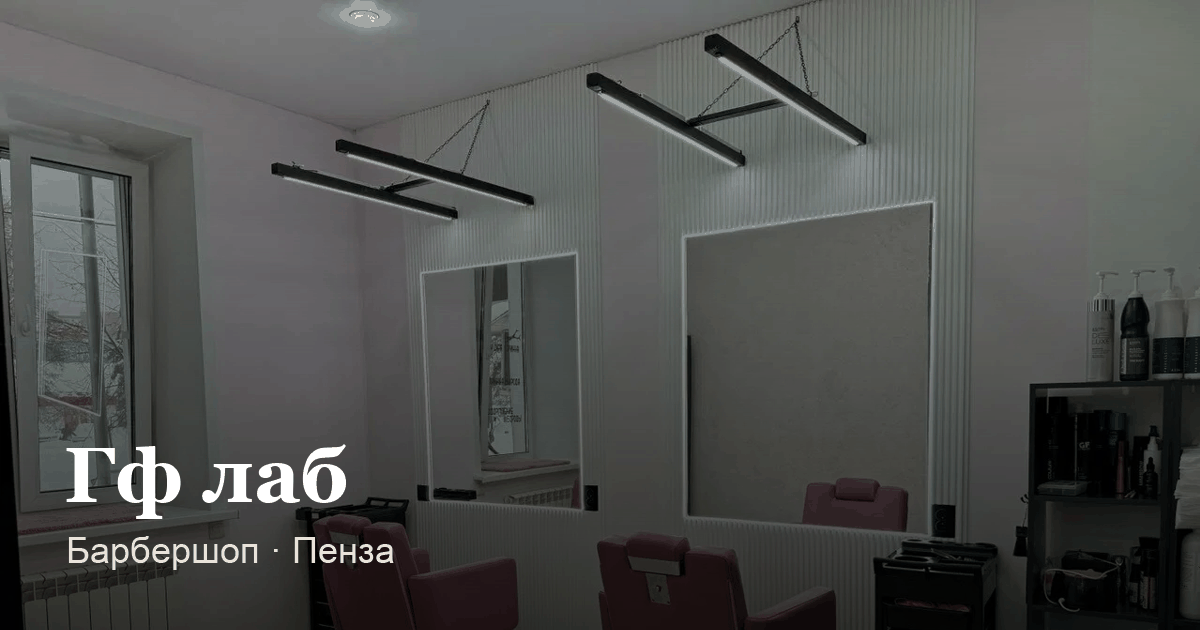
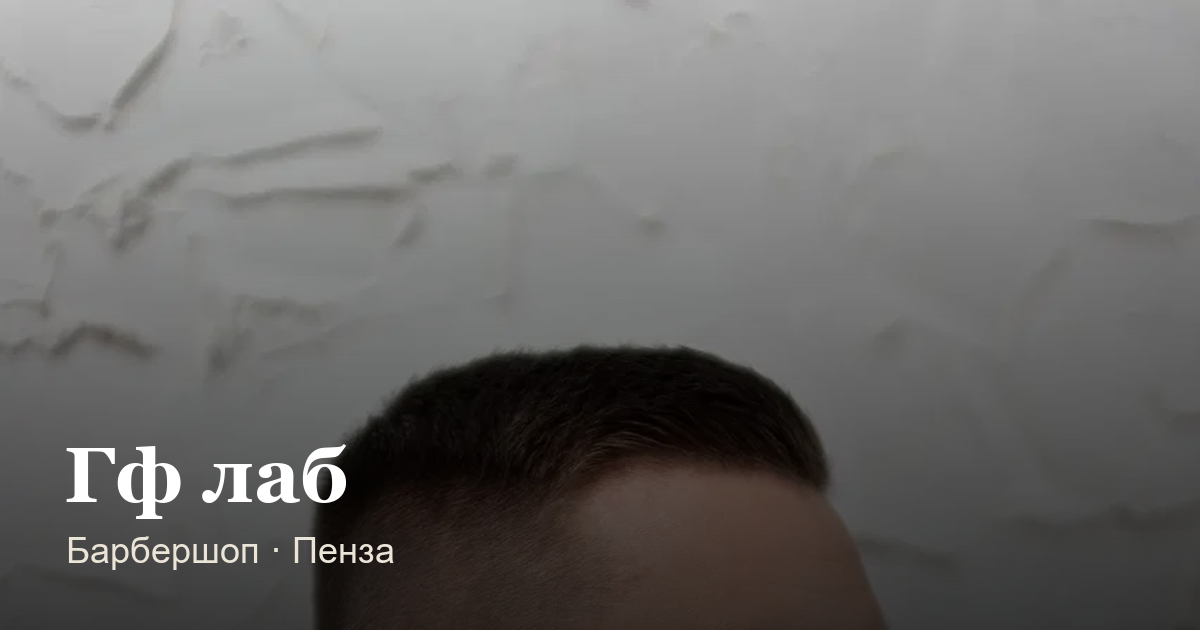
Update public link previews (5 files)

diff --git a/iglu-berloga-shchelkovo/index.html b/iglu-berloga-shchelkovo/index.html
@@ -1,0 +1,17 @@
+<!doctype html><html lang="ru"><head><meta charset="utf-8">
+<title>Иглу Berloga · ресторан, Щёлково</title>
+<meta name="description" content="«Иглу Berloga», Щёлково, наб. Серафима Саровского, 2. Меню, часы работы и контакты.">
+<meta property="og:title" content="Иглу Berloga · ресторан, Щёлково">
+<meta property="og:description" content="«Иглу Berloga», Щёлково, наб. Серафима Саровского, 2. Меню, часы работы и контакты.">
+<meta property="og:type" content="website">
+<meta property="og:url" content="https://gostyam.ru/iglu-berloga-shchelkovo/">
+<meta property="og:image" content="https://gostyam.ru/iglu-berloga-shchelkovo/og.png">
+<meta property="og:image:type" content="image/png">
+<meta property="og:image:width" content="1200">
+<meta property="og:image:height" content="630">
+<meta property="og:image:alt" content="Иглу Berloga · ресторан, Щёлково">
+<meta name="twitter:card" content="summary_large_image">
+<meta name="twitter:image" content="https://gostyam.ru/iglu-berloga-shchelkovo/og.png">
+<meta http-equiv="refresh" content="3;url=https://m.gostyam.ru/iglu-berloga-shchelkovo/">
+<script>location.replace("https://m.gostyam.ru/iglu-berloga-shchelkovo/" + location.search + location.hash);</script>
+</head><body><a href="https://m.gostyam.ru/iglu-berloga-shchelkovo/">Иглу Berloga · ресторан, Щёлково</a></body></html>

diff --git a/borodinskiy-volgograd/index.html b/borodinskiy-volgograd/index.html
@@ -1,0 +1,17 @@
+<!doctype html><html lang="ru"><head><meta charset="utf-8">
+<title>Бородинский — Волгоград</title>
+<meta name="description" content="Бородинский в Волгограде: адрес, часы работы и онлайн-запись.">
+<meta property="og:title" content="Бородинский — Волгоград">
+<meta property="og:description" content="Бородинский в Волгограде: адрес, часы работы и онлайн-запись.">
+<meta property="og:type" content="website">
+<meta property="og:url" content="https://gostyam.ru/borodinskiy-volgograd/">
+<meta property="og:image" content="https://gostyam.ru/borodinskiy-volgograd/og.png">
+<meta property="og:image:type" content="image/png">
+<meta property="og:image:width" content="1200">
+<meta property="og:image:height" content="630">
+<meta property="og:image:alt" content="Бородинский — Волгоград">
+<meta name="twitter:card" content="summary_large_image">
+<meta name="twitter:image" content="https://gostyam.ru/borodinskiy-volgograd/og.png">
+<meta http-equiv="refresh" content="3;url=https://m.gostyam.ru/borodinskiy-volgograd/">
+<script>location.replace("https://m.gostyam.ru/borodinskiy-volgograd/" + location.search + location.hash);</script>
+</head><body><a href="https://m.gostyam.ru/borodinskiy-volgograd/">Бородинский — Волгоград</a></body></html>
